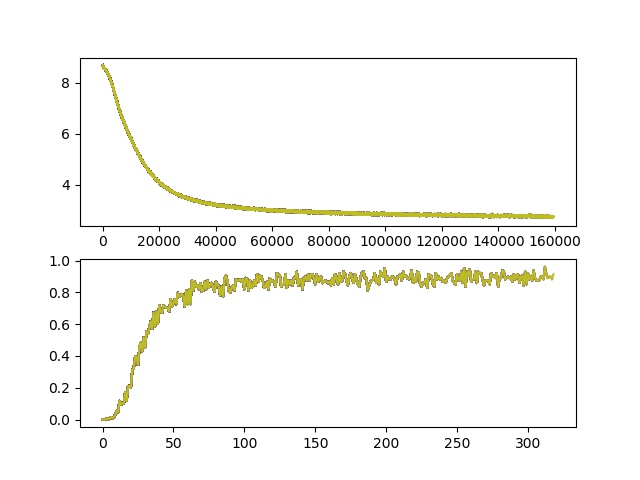
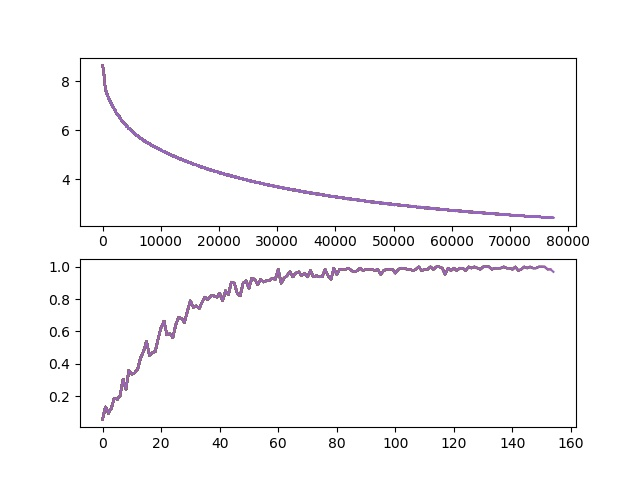
autoencoder_training

diff --git a/Agent.py b/Agent.py
@@ -17,6 +17,7 @@ class Agent():
         self.bert_model = bert_model
         self.short_memory = ShortMemory(self.actor_critic, self.discriminator, bert_model, encoder)
         self.long_memory = LongMemory()
+        self.encoder = encoder
         self.horizon_cnt = 0
         self.kl_coef = 0.1
         
@@ -78,7 +79,7 @@ class Agent():
         agent_indice = np.arange(agent_chunk_length)
         np.random.shuffle(agent_indice)
         agent_states = self.long_memory.states[agent_indice]
-        agent_actions = self.long_memory.bert_encoded_actions[agent_indice]
+        agent_actions = self.long_memory.encoded_actions[agent_indice]
         agent_codes = self.long_memory.codes[agent_indice]
         agent_rewards = self.long_memory.rewards[agent_indice]
         for i in range(min(expert_chunk_length//BATCH_SIZE, agent_chunk_length//BATCH_SIZE)):
@@ -91,6 +92,7 @@ class Agent():
             #expert forward
             batch_expert_states = torch.as_tensor(expert_states[i*BATCH_SIZE:(i+1)*BATCH_SIZE], dtype=torch.float, device=DEVICE)
             batch_expert_actions = torch.as_tensor(expert_actions[i*BATCH_SIZE:(i+1)*BATCH_SIZE], dtype=torch.float, device=DEVICE)
+            batch_expert_actions = self.encoder.get_latent_variable(batch_expert_actions)
             batch_expert_codes = expert_codes[i*BATCH_SIZE:(i+1)*BATCH_SIZE]
             is_agent = torch.zeros(len(batch_expert_states), dtype=torch.float, device=DEVICE)
             expert_loss, kl_expert = self.discriminator.calculate_loss(batch_expert_states, batch_expert_actions, is_agent, batch_expert_codes, self.kl_coef)
@@ -159,8 +161,7 @@ class Agent():
                 expert_actions = expert_chunk['actions']
                 expert_codes = expert_chunk['codes'].reshape((-1,))
                 self.discriminator_update(expert_states, expert_actions, expert_codes)
-                tmp_cnt += 1
-        for _ in range(PPO_STEP):
+        for i in range(PPO_STEP):
             expert_chunk = expert_chunks[i]
             expert_states = expert_chunk['states']
             expert_action_ids = expert_chunk['action_ids'].reshape((-1,))

diff --git a/Discriminator.py b/Discriminator.py
@@ -4,7 +4,7 @@ from torch.nn import Module, ModuleList
 from torch.nn import Linear, LeakyReLU, PReLU, BatchNorm1d
 from torch.nn import BCELoss, CrossEntropyLoss
 from torch.distributions import MultivariateNormal, kl_divergence
-from torch import sigmoid
+from torch import sigmoid, tanh
 from torch.optim import Adam
 from config import *
 
@@ -25,11 +25,10 @@ class Discriminator(Module):
         self.code_out = Linear(DISC_LATENT_SIZE, CODE_SIZE)
         self.disc_loss = BCELoss()
         self.code_loss = CrossEntropyLoss()
-        target_mean = torch.zeros(AUTOENCODER_BATCH_SIZE, COMPRESSED_VOCAB_SIZE).to(DEVICE)
-        target_cov = torch.diag_embed(torch.ones(AUTOENCODER_BATCH_SIZE, COMPRESSED_VOCAB_SIZE)).to(DEVICE)
+        target_mean = torch.zeros(1, COMPRESSED_VOCAB_SIZE).to(DEVICE)
+        target_cov = torch.diag_embed(torch.ones(1, COMPRESSED_VOCAB_SIZE)).to(DEVICE)
         self.target_dist = MultivariateNormal(target_mean, target_cov)
         self.opt = Adam(self.parameters(), lr=DISC_LR)
-
 
     def forward(self, s, a):
         '''
@@ -63,7 +62,7 @@ class Discriminator(Module):
         '''
         s_a = torch.bmm(s.unsqueeze(2), a.unsqueeze(1)).view(-1, STATE_SIZE*COMPRESSED_VOCAB_SIZE)
         x = self.a1(self.l1(s_a))
-        x = self.l3(self.a2(self.l2(s_a)))
+        x = self.l3(self.a2(self.l2(x)))
         m = x[:, :COMPRESSED_VOCAB_SIZE]
         cov = torch.diag_embed(torch.exp(x[:, COMPRESSED_VOCAB_SIZE:]))
         dist = MultivariateNormal(m, cov)
@@ -90,7 +89,7 @@ class Discriminator(Module):
             print('disc_out:', -np.tan(_disc_out - 0.5))
         disc_loss = self.disc_loss(disc_out, is_agent)
         code_loss = self.code_loss(code_out, code_answer)
-        kl_loss = torch.mean(kl_divergence(self.target_dist, dist))
+        kl_loss = torch.mean(kl_divergence(dist, self.target_dist))
         loss = disc_loss + WEIGHT_FOR_CODE*code_loss + kl_coef*kl_loss
         kl_loss = kl_loss.detach().cpu().numpy()
         return loss, kl_loss

diff --git a/Autoencoder.py b/Autoencoder.py
@@ -18,7 +18,7 @@ class Encoder(Module):
         self.prelu = PReLU()
         self.out_layer = Linear(AUTOENCODER_HIDDEN_UNIT_NUM, 2*COMPRESSED_VOCAB_SIZE)
         if load_mymodel:
-            self.load(150000)
+            self.load(50000)
 
     def forward(self, x):
         x = self.out_layer(self.prelu(self.linear(x)))
@@ -79,7 +79,7 @@ if __name__ == '__main__':
         target_cov = torch.diag_embed(torch.ones(AUTOENCODER_BATCH_SIZE, COMPRESSED_VOCAB_SIZE)).to(DEVICE)
         target_dist = MultivariateNormal(target_mean, target_cov)
         parameters = chain(encoder.parameters(), decoder.parameters())
-        opt = Adam(parameters, lr=1e-4)
+        opt = Adam(parameters, lr=1e-3)
         loss_function = CrossEntropyLoss()
         save_epoch = [10000, 25000, 50000, 75000, 100000, 125000, 150000]
         loss_list = []
@@ -93,7 +93,7 @@ if __name__ == '__main__':
             latent_variable = dist.rsample()
             processed = decoder(latent_variable)
             cross_entropy_loss = loss_function(processed, answer)
-            kl_loss = torch.mean(kl_divergence(target_dist, dist))
+            kl_loss = torch.mean(kl_divergence(dist, target_dist))
             loss = cross_entropy_loss + AUTOENCODER_KL_COEF*kl_loss
             encoder.zero_grad()
             decoder.zero_grad()

diff --git a/config.py b/config.py
@@ -1,5 +1,5 @@
 #system info
-DEVICE = 'cpu'
+DEVICE = 'cuda:0'
 EXPERT_DIR = './restricted_expert_data'
 EXPERT_CHUNKS_NUM = 400
 EXPERT_CHUNK_LENGTH = 512
@@ -25,8 +25,8 @@ DISC_HIDDEN_UNIT_NUM = STATE_SIZE
 DISC_LATENT_SIZE = 8
 DISC_LR = 1e-4
 WEIGHT_FOR_CODE = 0.5
-WEIGHT_FOR_KL = 0.1
-KL_STEP = 1e-3
+WEIGHT_FOR_KL = 1e-3
+KL_STEP = 1e-5
 IC = 0.5
 DISC_STEP = 2
 DISC_UPDATE_CNT = 1
